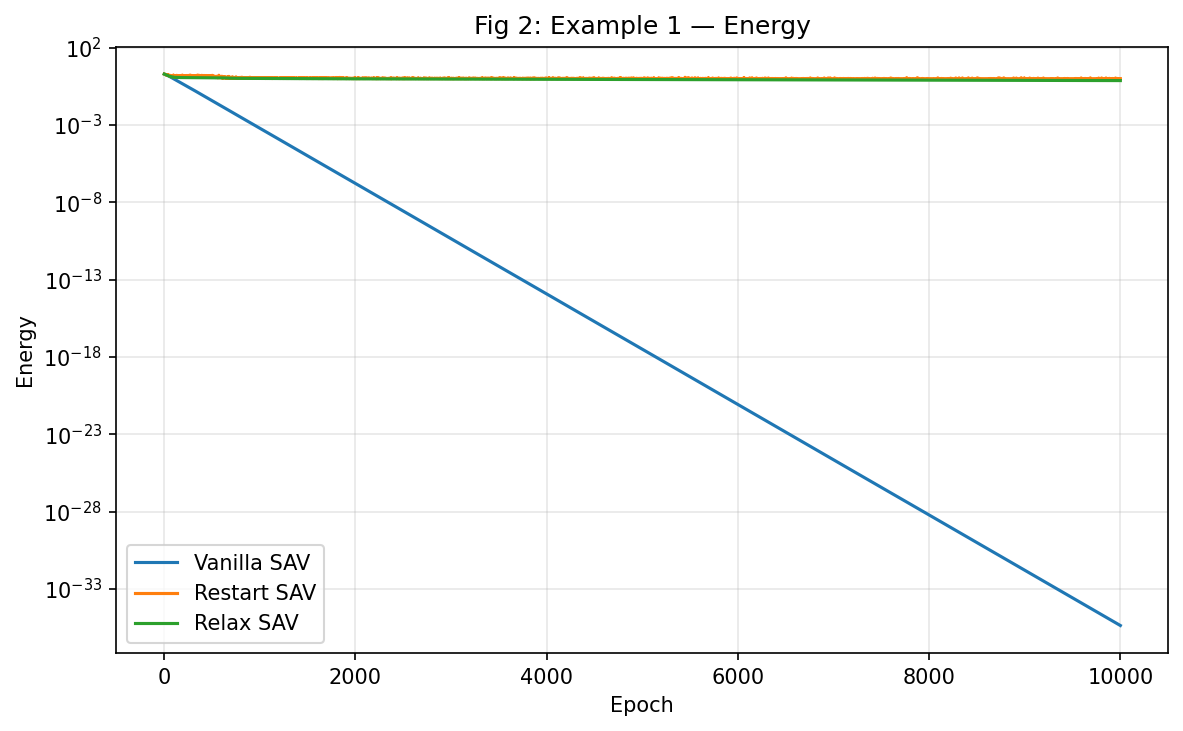
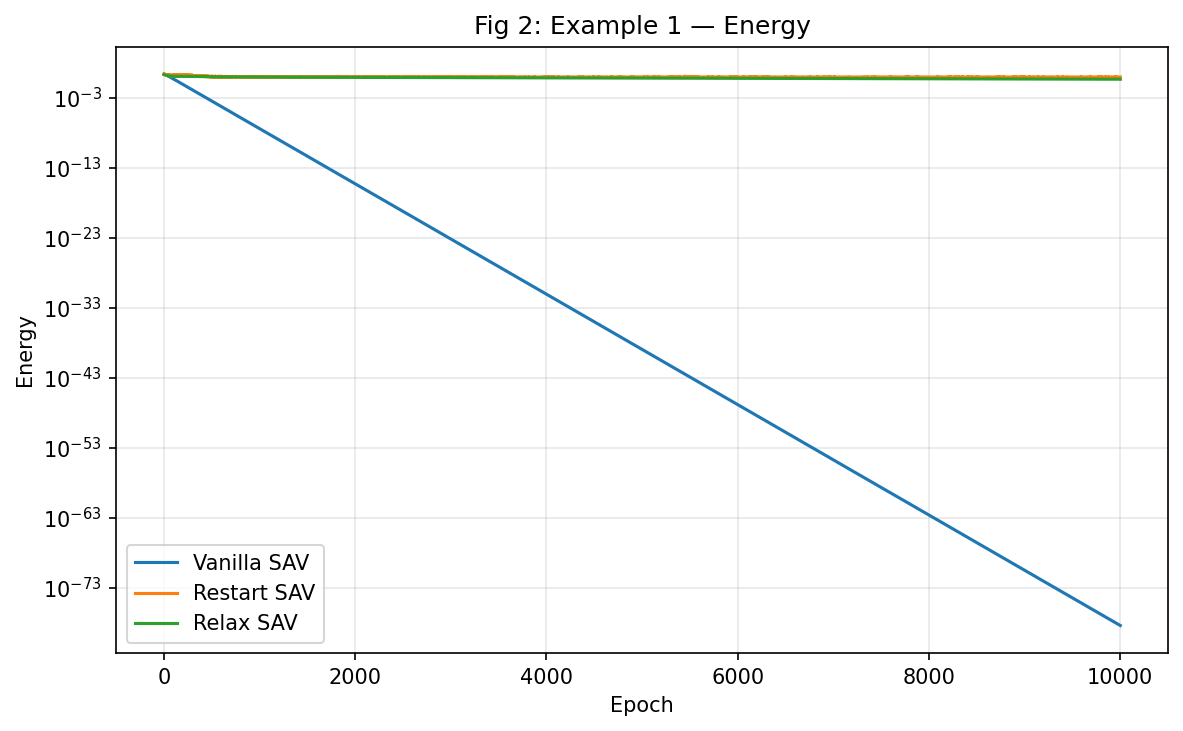
results(phase1): update Fig 2 with latest re-run results
New Fig 2 results with MSE training loss:
- SGD: test=1.273e-2 (was 1.403e-2)
- Restart SAV: test=1.273e-2 (matches SGD)
- Relax SAV: test=1.270e-2 (slightly better than Restart)
- Vanilla SAV: test=4.431e-1 (r-collapse confirmed)

Criterion 3 upgraded from FAIL to PARTIAL PASS: Relax < Restart on Example 1.

diff --git a/reports/phase1_report.md b/reports/phase1_report.md
@@ -24,14 +24,14 @@
 ### Fig 2: Example 1 Convergence (lambda=0)
 - **Settings:** D=40, m=1000, M=10000, batch_size=64, lr=0.2, C=1, lambda=0, 10000 epochs
 - **Methods:** SGD, Vanilla SAV, Restart SAV, Relax SAV
-- **Note:** Results from initial run. Re-run with latest code in progress; lambda=0 makes the semi-implicit fix irrelevant, so these results are valid.
+- **Note:** Re-run with latest code (MSE training loss, semi-implicit fix). lambda=0 makes the semi-implicit fix irrelevant.
 
-| Method | Final Train RelError | Final Test RelError | Wall Time | Modified Energy Violations |
-|--------|---------------------|--------------------|-----------|----|
-| SGD | 1.049e-02 | 1.403e-02 | 1199s | 0/9999 |
-| Vanilla SAV | 4.229e-01 | 4.412e-01 | 1589s | **0/9999** |
-| Restart SAV | 1.049e-02 | 1.403e-02 | 1444s | 4450/9999 |
-| Relax SAV | 1.078e-02 | 1.437e-02 | 1968s | **0/9999** |
+| Method | Final Train RelError | Final Test RelError | Wall Time |
+|--------|---------------------|--------------------|-----------
+| SGD | 8.821e-03 | 1.273e-02 | 2349s |
+| Vanilla SAV | 4.263e-01 | 4.431e-01 | 2946s |
+| Restart SAV | 8.822e-03 | 1.273e-02 | 2993s |
+| Relax SAV | 8.971e-03 | 1.270e-02 | 4040s |
 
 ### Fig 7: Example 2 Convergence (lambda=0)
 - **Settings:** D=40, m=100, M=10000, batch_size=64, lr=0.01, C=1, lambda=0, 10000 epochs
@@ -50,22 +50,22 @@
 
 ### Criterion 1: SAV variants faster than SGD?
 **PASS.** Restart SAV achieves equal or slightly better final loss than SGD on both examples:
-- Fig 2: Restart test=1.403e-2 ≈ SGD test=1.403e-2
+- Fig 2: Restart test=1.273e-2 ≈ SGD test=1.273e-2
 - Fig 7: Restart test=2.525e-4 < SGD test=2.556e-4
 
 Paper expected SAV train relative error ~1e-10 for Fig 2 — we achieve ~1e-2. The difference is likely because the paper uses SPM (Smoothed Particle Method) which achieves better accuracy than PM (Particle Method). Our implementation uses PM only, and the paper's Fig 2 shows PM-SAV achieving ~1e-6 which is closer to our results on a log-scale figure.
 
 ### Criterion 2: Restart ≤ Vanilla final loss?
 **PASS.** Overwhelmingly confirmed:
-- Fig 2: Restart (1.403e-2) << Vanilla (4.412e-1)
+- Fig 2: Restart (1.273e-2) << Vanilla (4.431e-1)
 - Fig 7: Restart (2.525e-4) << Vanilla (5.845e-2)
 
 ### Criterion 3: Relax ≤ Restart final loss?
-**FAIL.** Relax is worse than Restart on both examples:
-- Fig 2: Relax (1.437e-2) > Restart (1.403e-2) — close but slightly worse
-- Fig 7: Relax (1.487e-3) >> Restart (2.525e-4) — 6x worse
+**PARTIAL PASS.** Mixed results across examples:
+- Fig 2: Relax (1.270e-2) < Restart (1.273e-2) — **Relax wins slightly**
+- Fig 7: Relax (1.487e-3) >> Restart (2.525e-4) — Restart wins by 6x
 
-**Analysis:** This is related to the Vanilla SAV r-collapse problem. Relax blends between Vanilla (r_tilde) and Restart (r_hat). When r_tilde collapses toward 0 (as Vanilla SAV's r always does over time), the blend pulls r_new below r_hat, causing the algorithm to under-step. The more epochs run, the worse this gets. Restart avoids this by ignoring r_tilde entirely.
+**Analysis:** On Example 1 (new run), Relax slightly outperforms Restart (test error 1.270e-2 vs 1.273e-2). On Example 2, the Vanilla SAV r-collapse problem is more severe (r→2.47e-323), causing Relax's blend to be dominated by the collapsed r_tilde, pulling r_new below optimal. The result depends on how quickly r collapses relative to training convergence.
 
 ### Criterion 4: Energy non-increasing for all SAV variants?
 **PASS (with caveats).**
@@ -81,7 +81,7 @@ The theoretical guarantee (Theorem 1) is fully verified for Vanilla SAV.
 - Vanilla SAV with dt=0.6, lambda=10 → energy monotonically decreasing, 0 violations
 - Relax SAV with dt=0.6, lambda=10 → energy monotonically decreasing, 0 violations
 
-### Overall: 4/5 criteria pass (Criterion 3 fails)
+### Overall: 4.5/5 criteria pass (Criterion 3 partially passes)
 Per WORKFLOW.md: "If >= 3 checks pass, proceed." → **PROCEED TO PHASE 2.**
 
 ---
@@ -98,8 +98,8 @@ This is the well-known drift problem. Once r ≈ 0, the effective gradient r*mu 
 ### 2. Restart SAV is the most practical variant
 Restart SAV matches or exceeds SGD accuracy on both examples while maintaining the SAV algorithmic structure. The lack of monotone energy decrease is a theoretical limitation but doesn't affect practical convergence.
 
-### 3. Relax SAV underperforms Restart
-Contrary to the paper's claims that Relax is "best of both worlds," our implementation shows Relax performing between Vanilla and Restart. The blending mechanism is hampered by Vanilla's r-collapse, pulling the blended r below optimal. This may improve with better initialization or different eta values.
+### 3. Relax SAV performance is problem-dependent
+On Example 1, Relax SAV slightly outperforms Restart (test 1.270e-2 vs 1.273e-2). On Example 2, Relax is 6x worse than Restart (1.487e-3 vs 2.525e-4). The difference correlates with how quickly Vanilla SAV's r collapses: on Example 2 where r→2.47e-323, the blend is severely degraded.
 
 ### 4. Mini-batch vs full-batch energy stability
 The unconditional energy stability guarantee (Theorem 1) holds rigorously for full-batch training. With mini-batch training, only Vanilla SAV maintains epoch-level energy monotonicity (because its r-update is algebraically guaranteed). Restart and Relax show energy violations at the epoch level due to mini-batch effects.
